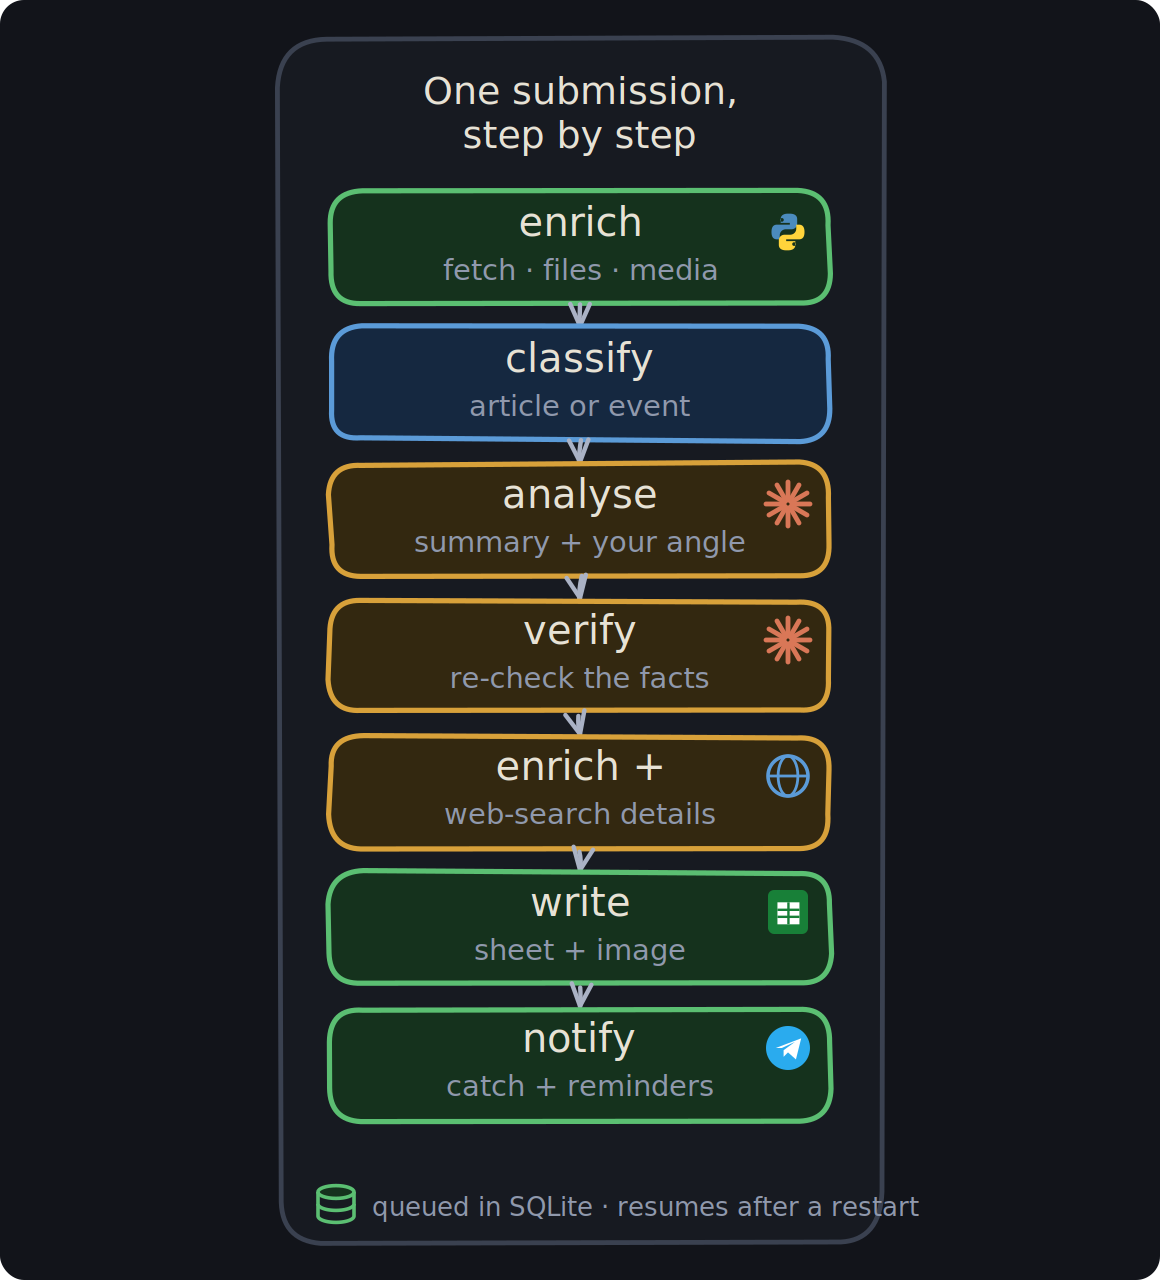
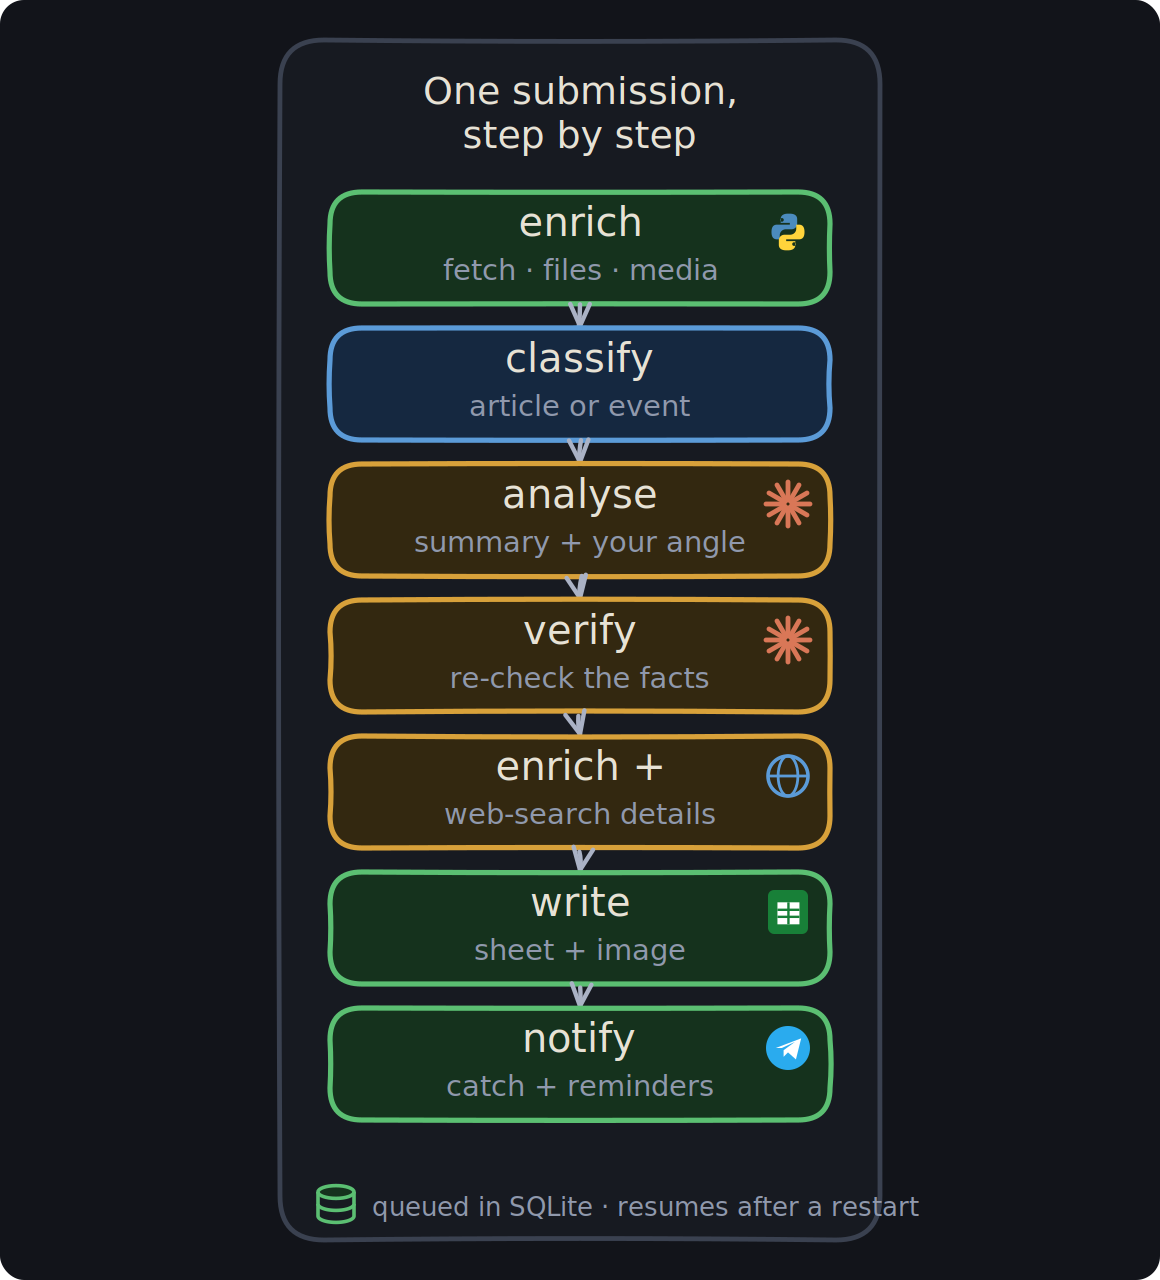
Clean diagram outlines; make calendar HTML fail-safe
Diagrams: draw rounded rects with exact corners and only gently-bowed edge
midpoints, removing the torn/notched top-right corners; regenerate SVG + 2x PNG.

Calendar HTML: wrap draw() in try/catch (surfaces any error instead of a blank
page), render the month grid + a clear "no dated items yet" hint when empty,
and wire the view buttons via addEventListener in addition to inline onclick so
they work even in restrictive webviews. Verified in headless Chromium: grid
renders, deadline/event/reminder chips show, buttons switch views.

Claude-Session: https://claude.ai/code/session_01BuErxx19J3jTFegNBJksww

diff --git a/docs/diagrams/gen_diagrams.py b/docs/diagrams/gen_diagrams.py
@@ -58,30 +58,24 @@ def _rng(seed):
     return r
 
 
-def _rough_rect(x, y, w, h, r=16, seed=1, jitter=1.1):
-    """A rounded rect as a gently-wobbly *closed* path — hand-drawn but with no
-    torn corners. Each corner shares one jittered anchor so edges always meet."""
+def _rough_rect(x, y, w, h, r=16, seed=1, jitter=1.4):
+    """A rounded rect with *exact* corners and gently-bowed straight edges — a
+    hand-drawn feel with no torn/notched corners. Corners are clean quarter
+    arcs at their true positions; only each edge's midpoint is nudged."""
     rng = _rng(seed)
-    def j():
+    def b():  # tiny perpendicular bump for an edge midpoint
         return (rng() - 0.5) * 2 * jitter
-    # one jittered anchor per corner side, reused so the path closes cleanly
-    tl = (x + r + j(), y + j())          # top-left (after radius)
-    tr = (x + w - r + j(), y + j())      # top-right (before radius)
-    rt = (x + w + j(), y + r + j())      # right-top
-    rb = (x + w + j(), y + h - r + j())  # right-bottom
-    br = (x + w - r + j(), y + h + j())  # bottom-right
-    bl = (x + r + j(), y + h + j())      # bottom-left
-    lb = (x + j(), y + h - r + j())      # left-bottom
-    lt = (x + j(), y + r + j())          # left-top
-    d = (f"M {tl[0]:.1f} {tl[1]:.1f} "
-         f"L {tr[0]:.1f} {tr[1]:.1f} "
-         f"Q {x+w:.1f} {y:.1f} {rt[0]:.1f} {rt[1]:.1f} "
-         f"L {rb[0]:.1f} {rb[1]:.1f} "
-         f"Q {x+w:.1f} {y+h:.1f} {br[0]:.1f} {br[1]:.1f} "
-         f"L {bl[0]:.1f} {bl[1]:.1f} "
-         f"Q {x:.1f} {y+h:.1f} {lb[0]:.1f} {lb[1]:.1f} "
-         f"L {lt[0]:.1f} {lt[1]:.1f} "
-         f"Q {x:.1f} {y:.1f} {tl[0]:.1f} {tl[1]:.1f} Z")
+    d = (
+        f"M {x+r:.1f} {y:.1f} "
+        f"Q {x+w/2:.1f} {y+b():.1f} {x+w-r:.1f} {y:.1f} "        # top edge
+        f"Q {x+w:.1f} {y:.1f} {x+w:.1f} {y+r:.1f} "             # TR corner
+        f"Q {x+w+b():.1f} {y+h/2:.1f} {x+w:.1f} {y+h-r:.1f} "   # right edge
+        f"Q {x+w:.1f} {y+h:.1f} {x+w-r:.1f} {y+h:.1f} "         # BR corner
+        f"Q {x+w/2:.1f} {y+h+b():.1f} {x+r:.1f} {y+h:.1f} "     # bottom edge
+        f"Q {x:.1f} {y+h:.1f} {x:.1f} {y+h-r:.1f} "             # BL corner
+        f"Q {x+b():.1f} {y+h/2:.1f} {x:.1f} {y+r:.1f} "         # left edge
+        f"Q {x:.1f} {y:.1f} {x+r:.1f} {y:.1f} Z"                # TL corner
+    )
     return d
 
 

diff --git a/src/briefer/calendar_view.py b/src/briefer/calendar_view.py
@@ -306,11 +306,20 @@ function renderYear(){
   return h+'</div>';
 }
 function draw(){
-  document.querySelectorAll("header button[data-v]").forEach(b=>
-    b.classList.toggle("active",b.dataset.v===view));
-  const r=document.getElementById("root");
-  r.innerHTML=({month:renderMonth,week:renderWeek,day:renderDay,
-                year:renderYear,list:renderList})[view]();
+  try{
+    document.querySelectorAll("header button[data-v]").forEach(b=>
+      b.classList.toggle("active",b.dataset.v===view));
+    const r=document.getElementById("root");
+    r.innerHTML=({month:renderMonth,week:renderWeek,day:renderDay,
+                  year:renderYear,list:renderList})[view]();
+    if(!EVENTS.length){
+      r.innerHTML+='<div class="hint">No dated items yet — add an event or a '+
+        'deadline (or a Remind At date in the sheet) and it shows up here.</div>';
+    }
+  }catch(err){
+    document.getElementById("root").innerHTML=
+      '<div class="hint">Calendar error: '+esc(String(err))+'</div>';
+  }
 }
 function setView(v){view=v;draw();}
 function nav(n){if(view==="year")cur.setFullYear(cur.getFullYear()+n);
@@ -319,6 +328,11 @@ function nav(n){if(view==="year")cur.setFullYear(cur.getFullYear()+n);
   else cur.setMonth(cur.getMonth()+n);draw();}
 function today(){cur=new Date();cur.setHours(0,0,0,0);draw();}
 function goto(s){cur=new Date(s+"T00:00");view="day";draw();}
+// Wire buttons via listeners too (works even where inline onclick is blocked).
+document.addEventListener("DOMContentLoaded",function(){
+  document.querySelectorAll("header button[data-v]").forEach(b=>
+    b.addEventListener("click",()=>setView(b.dataset.v)));
+});
 // jump to the first upcoming item so the view opens somewhere useful.
 (function(){const up=Object.keys(byDate).sort().find(k=>k>=iso(new Date()));
   if(up)cur=new Date(up+"T00:00");draw();})();